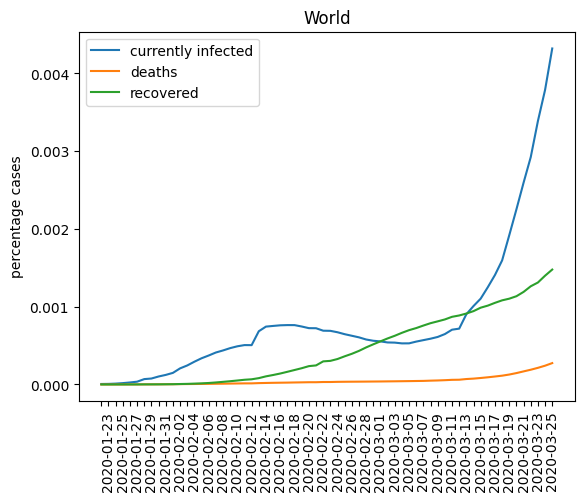
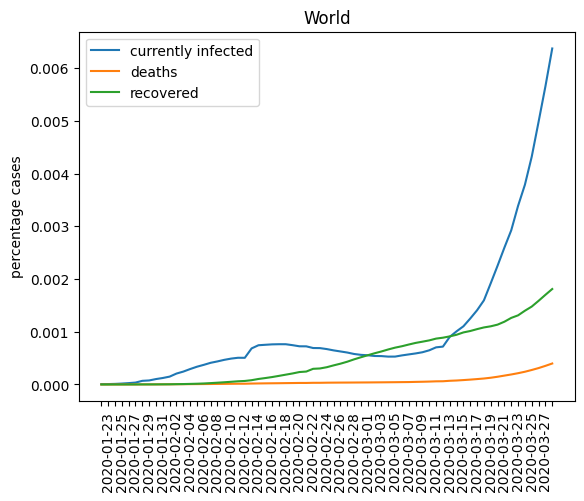
update data

diff --git a/README.md b/README.md
@@ -9,16 +9,16 @@ entire world, such as the following graph:
 **most_infected.py** outputs a table of all countries, showing the number of currently infected persons as well as
 numbers of deaths and recovered persons. An example of such a table is shown below:
 
-| country         |  infected | infected % | deaths | recovered | population |
-|-----------------|-----------|------------|--------|-----------|------------|
-|  US             | 64475     | 0.019705   | 942    | 361       | 327200000  |
-|  Italy          | 57521     | 0.095107   | 7503   | 9362      | 60480000   |
-|  Spain          | 40501     | 0.0868     | 3647   | 5367      | 46660000   |
-|  Germany        | 33570     | 0.040548   | 206    | 3547      | 82790000   |
-|  France         | 20360     | 0.030393   | 1333   | 3907      | 66990000   |
-|  Iran           | 15315     | 0.01887    | 2077   | 9625      | 81160000   |
-|  Switzerland    | 10613     | 0.123839   | 153    | 131       | 8570000    |
-|  United Kingdom | 9034      | 0.013597   | 466    | 140       | 66440000   |
-|  Netherlands    | 6077      | 0.035373   | 357    | 4         | 17180000   |
-|  Austria        | 5549      | 0.00629    | 30     | 9         | 88220000   |
-|  ...            | ...       | ...        | ...    | ...       | ...        |
+| country        | infected | infected % | deaths | recovered | population |
+|----------------|----------|------------|--------|-----------|------------|
+| US             | 118380   | 0.03618    | 2026   | 1072      | 327200000  |
+| Italy          | 70065    | 0.115848   | 10023  | 12384     | 60480000   |
+| Spain          | 54968    | 0.117805   | 5982   | 12285     | 46660000   |
+| Germany        | 48781    | 0.058921   | 433    | 8481      | 82790000   |
+| France         | 30064    | 0.044878   | 2317   | 5724      | 66990000   |
+| Iran           | 21212    | 0.026136   | 2517   | 11679     | 81160000   |
+| United Kingdom | 16140    | 0.024293   | 1021   | 151       | 66440000   |
+| Switzerland    | 12282    | 0.143314   | 264    | 1530      | 8570000    |
+| Netherlands    | 9173     | 0.053393   | 640    | 6         | 17180000   |
+| Austria        | 7978     | 0.090433   | 68     | 225       | 8822000    |
+| ...            | ...      | ...        | ...    | ...       | ...        |
